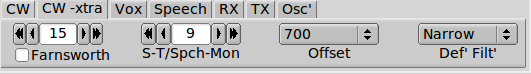
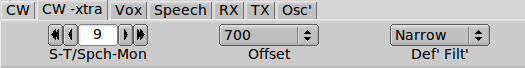
WPM controls
* Replicated WPM control on cw-keyboard
  * Moved Farnsworth controls to cw-keyboard

diff --git a/kcat-help/cw_keyboard.html b/kcat-help/cw_keyboard.html
@@ -1,1 +1,1 @@
-<h1 style="text-align: center;">CW Keyboard</h1><br><table style="text-align: left; width: 100%;" border="0" cellpadding="2" cellspacing="2"><tbody><tr><td colspan="2" style="vertical-align: top;">Selecting the CW keyboard menu item on the Utils menu opens the CW dialog.&nbsp; This is a fully interactive morse code generator.&nbsp; It uses the 505DSP internal firmware for generating the code.&nbsp; This means that the timing and the CW waveform shape is controlled by the transceiver.<br></td></tr><tr align="center"><td colspan="2" style="vertical-align: top;"><img style="width: 688px; height: 206px;" alt="" src="images/cw-keyboard.png"><br><br></td></tr><tr><td colspan="2" style="vertical-align: top;">The large blank control is the text entry which accepts text from either the keyboard or from one of the macro button closures.&nbsp; When the Send button is enabled (lit) the text will be sent one character at a time. As the text is sent it will scroll off the control to the left in a marquee style.&nbsp; You can pause the transmission at any time by pressing the Send button which acts as a toggle switch.&nbsp; The currently sent character will be finished by the transceiver.&nbsp; If you press the Abort button the text transmission will stop and the transceiver will immediately return to receive.&nbsp; Any character being sent will be truncated.<br><br>Press function key F1...F12 to add the macro text to the end of the transmit text buffer.&nbsp; You can also press the associated button with the mouse left-click.<br><br><table style="text-align: left; width: 100%;" border="0" cellpadding="2" cellspacing="2"><tbody><tr><td style="vertical-align: top;">Right-click with the mouse in the text buffer control to open a pop-up menu.<br><br>You can cut, copy and paste to/from another application.&nbsp; Use the left-mouse drag to mark text.<br><br>You can clear the text buffer from this pop-up<br></td><td style="vertical-align: top;"><img style="width: 235px; height: 178px;" alt="" src="images/text_menu.png"></td></tr></tbody></table><br><br>Enter the data for each contact in the STA - station call, NAM - operator name, Freq: - frequency ofoperation, X_in - contest exchange received.<br><br>Clear the logbook area by pressing the Clear button<br><br>If you are running the program fllog, a logbook server program, you can connect to the server for the purpose of logging your exchange, looking up previous QSOs (automatic), and checking for duplicates during a CW contest.&nbsp; Check the Connect box and the program will start data exchanges with the server.&nbsp; If the connection is successful the button remains checked.&nbsp; If not then it returns to the unchecked state.&nbsp; Upon successful connection the Log button and the Ck Dups buttons are activated.&nbsp; Press the Log button to log the current qso (also see below for use of macros and duplicate parameter selection).&nbsp; Press the Ck Dups button for contest duplicate checking.&nbsp;&nbsp; Simply enter the STA callsign and if it is a dup the control will turn red.<br><br></td></tr><tr><td style="vertical-align: middle; text-align: center;"><img style="width: 608px; height: 410px;" alt="" src="images/configure-cw-keyboard.png"><br></td><td style="vertical-align: top;">Pressing the Configure button on the keyboard dialog will open up the Configure dialog for the keyboard.&nbsp; You can customize the&nbsp; macro buttons for various canned transmissions.&nbsp; These transmissions can include various computed tags.&nbsp; The tags are<br><table style="text-align: left; width: 100%;" border="0" cellpadding="2" cellspacing="2"><tbody><tr><td style="vertical-align: top;">&lt;CLL&gt;<br></td><td style="vertical-align: top;">your callsign, entered in the CLL control<br></td></tr><tr><td style="vertical-align: top;">&lt;QTH&gt;<br></td><td style="vertical-align: top;">your QTH, entered in the QTH control<br></td></tr><tr><td style="vertical-align: top;">&lt;LOC&gt;<br></td><td style="vertical-align: top;">your Locator, entered in the LOC control<br></td></tr><tr><td style="vertical-align: top;">&lt;OPR&gt;<br></td><td style="vertical-align: top;">your name, entered in the OPR control<br></td></tr><tr><td style="vertical-align: top;">&lt;STA&gt;<br></td><td style="vertical-align: top;">the other stations callsign, entered in the STA control above<br></td></tr><tr><td style="vertical-align: top;">&lt;NAM&gt;<br></td><td style="vertical-align: top;">the other stations name, entered in the NAM control above<br></td></tr><tr><td style="vertical-align: top;">&lt;#&gt;<br></td><td style="vertical-align: top;">Contest: serial number, starting # entered in Next # control<br></td></tr><tr><td style="vertical-align: top;">&lt;+&gt;<br></td><td style="vertical-align: top;">Contest: increment the serial number<br></td></tr><tr><td style="vertical-align: top;">&lt;-&gt;<br></td><td style="vertical-align: top;">Contest: decrement the serial number<br></td></tr><tr><td style="vertical-align: top;">&lt;LOG&gt;<br></td><td style="vertical-align: top;">Logbook: send the data to the fllog server program (if running)<br></td></tr><tr><td style="vertical-align: top;">&lt;X&gt;<br></td><td style="vertical-align: top;">Contest: send the contents of the Xout control<br></td></tr></tbody></table>Prosigns are sent using the indicated keyboard character.&nbsp; For example, the % character will send the AS prosign.<br><br>Check the Zeros control if you want each serial number to have leading zeros.<br><br>Duplicates can be tested for callsign only, or callsign plus a time span using the "Time Span" and "Ck span" controls.&nbsp; You can also include a requirement for the band the match, "Ck Band"<br></td></tr><tr><td style="vertical-align: top;"><h3>Farnsworth code speed</h3><br>Farnsworth code speed allows characters to be sent at a faster rate that the word rate.&nbsp; For example you can send the characters at 24 wpm and the word rate at 15 wpm.&nbsp; The program will adjust the inter character and inter word spacing to produce the desired effect.&nbsp; This capability is only available using the CW keyboard and not from the CW paddle or key inputs.&nbsp; Set the word rate and enable the Farnsworth check box to use this feature.<br><br>The CW-keyboard character WPM and the Paddle WPM are set by the same control on the CW pulldown tab.&nbsp; The Weight and Attack controls are also linked to both the Paddle and the CW keyboard code generator.<br><br><br></td><td style="vertical-align: top;"><img style="width: 531px; height: 74px;" alt="" src="images/CW-extra.png"><br><br><img style="width: 496px; height: 71px;" alt="" src="images/CW.png"><br></td></tr><tr><td style="vertical-align: top;"><br></td><td style="vertical-align: top;"><br></td></tr></tbody></table><br>
+<h1 style="text-align: center;">CW Keyboard</h1><br><table style="text-align: left; width: 100%;" border="0" cellpadding="2" cellspacing="2"><tbody><tr><td colspan="2" style="vertical-align: top;">Selecting the CW keyboard menu item on the Utils menu opens the CW dialog.&nbsp; This is a fully interactive morse code generator.&nbsp; It uses the 505DSP internal firmware for generating the code.&nbsp; This means that the timing and the CW waveform shape is controlled by the transceiver.<br></td></tr><tr align="center"><td colspan="2" style="vertical-align: top;"><img style="width: 688px; height: 206px;" alt="" src="images/cw-keyboard.png"><br><br></td></tr><tr><td colspan="2" style="vertical-align: top;">The large blank control is the text entry which accepts text from either the keyboard or from one of the macro button closures.&nbsp; When the Send button is enabled (lit) the text will be sent one character at a time. As the text is sent it will scroll off the control to the left in a marquee style.&nbsp; You can pause the transmission at any time by pressing the Send button which acts as a toggle switch.&nbsp; The currently sent character will be finished by the transceiver.&nbsp; If you press the Abort button the text transmission will stop and the transceiver will immediately return to receive.&nbsp; Any character being sent will be truncated.<br><br>Press function key F1...F12 to add the macro text to the end of the transmit text buffer.&nbsp; You can also press the associated button with the mouse left-click.<br><br><table style="text-align: left; width: 100%;" border="0" cellpadding="2" cellspacing="2"><tbody><tr><td style="vertical-align: top;">Right-click with the mouse in the text buffer control to open a pop-up menu.<br><br>You can cut, copy and paste to/from another application.&nbsp; Use the left-mouse drag to mark text.<br><br>You can clear the text buffer from this pop-up<br></td><td style="vertical-align: top;"><img style="width: 235px; height: 178px;" alt="" src="images/text_menu.png"></td></tr></tbody></table><br><br>Enter the data for each contact in the STA - station call, NAM - operator name, Freq: - frequency ofoperation, X_in - contest exchange received.<br><br>Clear the logbook area by pressing the Clear button<br><br>If you are running the program fllog, a logbook server program, you can connect to the server for the purpose of logging your exchange, looking up previous QSOs (automatic), and checking for duplicates during a CW contest.&nbsp; Check the Connect box and the program will start data exchanges with the server.&nbsp; If the connection is successful the button remains checked.&nbsp; If not then it returns to the unchecked state.&nbsp; Upon successful connection the Log button and the Ck Dups buttons are activated.&nbsp; Press the Log button to log the current qso (also see below for use of macros and duplicate parameter selection).&nbsp; Press the Ck Dups button for contest duplicate checking.&nbsp;&nbsp; Simply enter the STA callsign and if it is a dup the control will turn red.<br><br></td></tr><tr><td style="vertical-align: middle; text-align: center;"><img style="width: 608px; height: 410px;" alt="" src="images/configure-cw-keyboard.png"><br></td><td style="vertical-align: top;">Pressing the Configure button on the keyboard dialog will open up the Configure dialog for the keyboard.&nbsp; You can customize the&nbsp; macro buttons for various canned transmissions.&nbsp; These transmissions can include various computed tags.&nbsp; The tags are<br><table style="text-align: left; width: 100%;" border="0" cellpadding="2" cellspacing="2"><tbody><tr><td style="vertical-align: top;">&lt;CLL&gt;<br></td><td style="vertical-align: top;">your callsign, entered in the CLL control<br></td></tr><tr><td style="vertical-align: top;">&lt;QTH&gt;<br></td><td style="vertical-align: top;">your QTH, entered in the QTH control<br></td></tr><tr><td style="vertical-align: top;">&lt;LOC&gt;<br></td><td style="vertical-align: top;">your Locator, entered in the LOC control<br></td></tr><tr><td style="vertical-align: top;">&lt;OPR&gt;<br></td><td style="vertical-align: top;">your name, entered in the OPR control<br></td></tr><tr><td style="vertical-align: top;">&lt;STA&gt;<br></td><td style="vertical-align: top;">the other stations callsign, entered in the STA control above<br></td></tr><tr><td style="vertical-align: top;">&lt;NAM&gt;<br></td><td style="vertical-align: top;">the other stations name, entered in the NAM control above<br></td></tr><tr><td style="vertical-align: top;">&lt;#&gt;<br></td><td style="vertical-align: top;">Contest: serial number, starting # entered in Next # control<br></td></tr><tr><td style="vertical-align: top;">&lt;+&gt;<br></td><td style="vertical-align: top;">Contest: increment the serial number<br></td></tr><tr><td style="vertical-align: top;">&lt;-&gt;<br></td><td style="vertical-align: top;">Contest: decrement the serial number<br></td></tr><tr><td style="vertical-align: top;">&lt;LOG&gt;<br></td><td style="vertical-align: top;">Logbook: send the data to the fllog server program (if running)<br></td></tr><tr><td style="vertical-align: top;">&lt;X&gt;<br></td><td style="vertical-align: top;">Contest: send the contents of the Xout control<br></td></tr></tbody></table>Prosigns are sent using the indicated keyboard character.&nbsp; For example, the % character will send the AS prosign.<br><br>Check the Zeros control if you want each serial number to have leading zeros.<br><br>Duplicates can be tested for callsign only, or callsign plus a time span using the "Time Span" and "Ck span" controls.&nbsp; You can also include a requirement for the band the match, "Ck Band"<br></td></tr><tr><td style="vertical-align: top;"><h3>Farnsworth code speed</h3>The CW-keyboard character WPM and the Paddle WPM controls are mirrored on the CW tab pulldown and the cw-keyboard dialog.<br><br>Farnsworth code speed allows characters to be sent at a faster rate that the word rate.&nbsp; For example you can send the characters at 24 wpm and the word rate at 15 wpm.&nbsp; The program will adjust the inter character and inter word spacing to produce the desired effect.&nbsp; This capability is only available using the CW keyboard and not from the CW paddle or key inputs.&nbsp; Set the word rate and enable the Farnsworth check box to use this feature.<br></td><td style="vertical-align: middle;"><br><div style="text-align: center;"><img style="width: 529px; height: 71px;" alt="" src="images/CW.png" align="middle"><br></div></td></tr><tr><td style="vertical-align: top;"><br></td><td style="vertical-align: top;"><br></td></tr></tbody></table><br>

diff --git a/kcat-help/kcat-extras.html b/kcat-help/kcat-extras.html
@@ -3,6 +3,7 @@
 
 
 
+
   
   <meta content="text/html; charset=ISO-8859-1" http-equiv="content-type"><title>kcat exras</title></head><body>
 <h2>Kachina 505DSP Additional Controls</h2>
@@ -29,7 +30,7 @@ a received signal.<br>
             </td>
           </tr>
           <tr>
-            <td style="vertical-align: top;"><img style="width: 531px; height: 74px;" alt="" src="images/CW-extra.png"><br>
+            <td style="vertical-align: top;"><img style="width: 525px; height: 68px;" alt="" src="images/CW-extra.png"><br>
             </td>
             <td style="vertical-align: top;">You can adjust the keyer
 sidetone relative to the received audio.&nbsp; Set the control

diff --git a/src/include/kcat_panel.h b/src/include/kcat_panel.h
@@ -67,6 +67,7 @@ extern Fl_Tabs *tabs;
 extern Fl_Group *CWtab;
 extern Fl_Light_Button *btnSPOT;
 #include <FL/Fl_Counter.H>
+extern Fl_Counter *cntrWPM2;
 extern Fl_Counter *cntrWPM;
 extern Fl_Wheel_Value_Slider *sldrCWweight;
 extern Fl_Wheel_Value_Slider *sldrCWattack;
@@ -74,7 +75,6 @@ extern Fl_Choice *mnuCWmode;
 #include <FL/Fl_Check_Button.H>
 extern Fl_Check_Button *btnQSKonoff;
 extern Fl_Group *CW2tab;
-extern Fl_Counter *cntrFARNSWORTH;
 extern Fl_Counter *sldrSideTone;
 extern Fl_Choice *mnuCWoffset;
 extern Fl_Choice *mnuCWdefFilter;
@@ -209,9 +209,9 @@ extern Fl_Button *btn_msg9;
 extern Fl_Button *btn_msg10;
 extern Fl_Button *btn_msg11;
 extern Fl_Button *btn_msg12;
+extern Fl_Button *btn_messages;
 extern Fl_Button *btn_abort;
 extern Fl_Light_Button *btn_send;
-extern Fl_Button *btn_done_op_dialog;
 extern Fl_Input2 *txt_sta;
 extern Fl_Input2 *txt_name;
 extern Fl_Input *txt_freq;
@@ -220,7 +220,9 @@ extern Fl_Button *btn_log_it;
 extern Fl_Button *btn_clear;
 extern Fl_Check_Button *btn_dups;
 extern Fl_Check_Button *btnConnect;
-extern Fl_Button *btn_messages;
+extern Fl_Counter *cntrFARNSWORTH;
+extern Fl_Counter *cntrWPM;
+extern Fl_Counter *cntrWPM2;
 Fl_Double_Window* cwkeyboard_window();
 extern Fl_Input2 *label_1;
 extern Fl_Input2 *edit_msg1;
